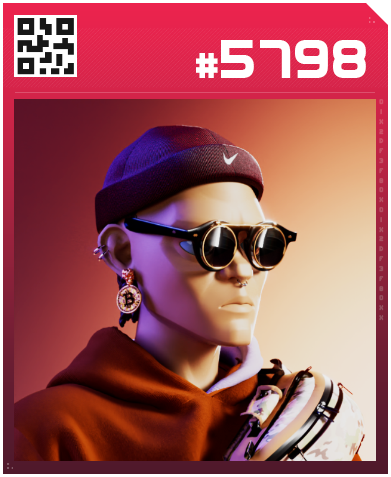
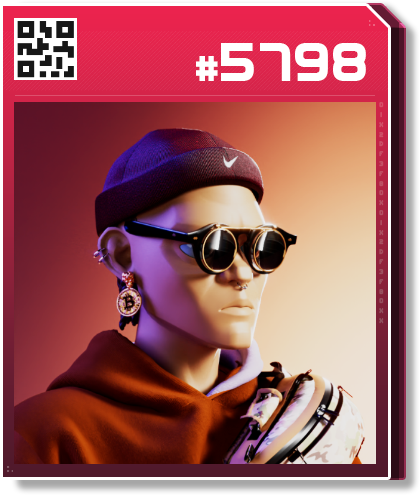
added shadow on cards

diff --git a/src/components/Presentation.css b/src/components/Presentation.css
@@ -1,7 +1,7 @@
 .card-to-rotate {
     background: url('../assets/tugoune.png');
-    width: 391px;
-    height: 477px;
+    width: 420px;
+    height: 495px;
     animation: 2s cubic-bezier(0.79, 0.01, 0.34, 0.99) infinite alternate-reverse slidein;
     transform-style: preserve-3d;
     transform: rotateZ(8deg);
@@ -12,14 +12,14 @@
 
 .card-to-rotate2 {
     background: url('../assets/tugoune.png');
-    width: 391px;
-    height: 477px;
+    width: 420px;
+    height: 495px;
     animation: 2s cubic-bezier(0.79, 0.01, 0.34, 0.99) infinite alternate-reverse slidein2;
     transform-style: preserve-3d;
     transform: rotateZ(-8deg) skew(0deg, 0deg);
     position: absolute;
-    margin-left: 400px;
-
+    margin-left: 500px;
+    margin-top: 50px;
 }
 
 @-webkit-keyframes slidein { from { will-change: transform; transform: translate3d(0.0027px, 0.0021px, 0px) scale3d(1, 1, 1) rotateX(-0.0021deg) rotateY(0.0027deg) rotateZ(0deg) skew(0deg, 0deg); transform-style: preserve-3d;} to {  will-change: transform; transform: translate3d(0.0027px, 0.0021px, 0px) scale3d(1, 1, 1) rotateX(-0.0021deg) rotateY(0.0027deg) rotateZ(0deg) skew(0deg, 0deg); transform-style: preserve-3d; }  }
